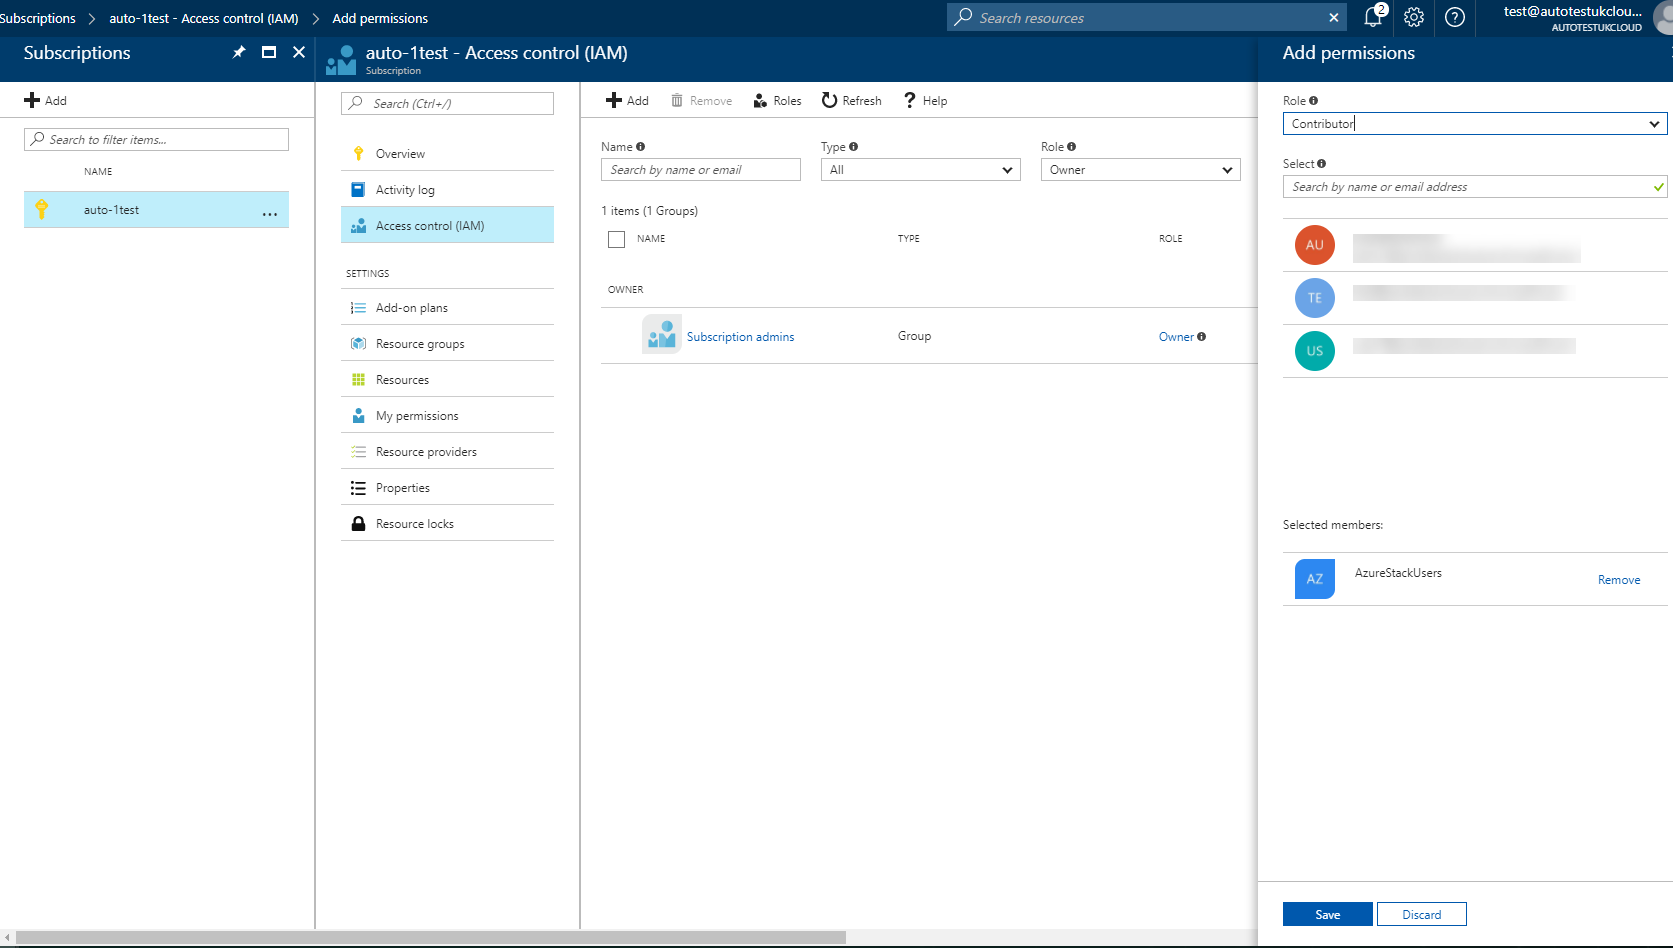
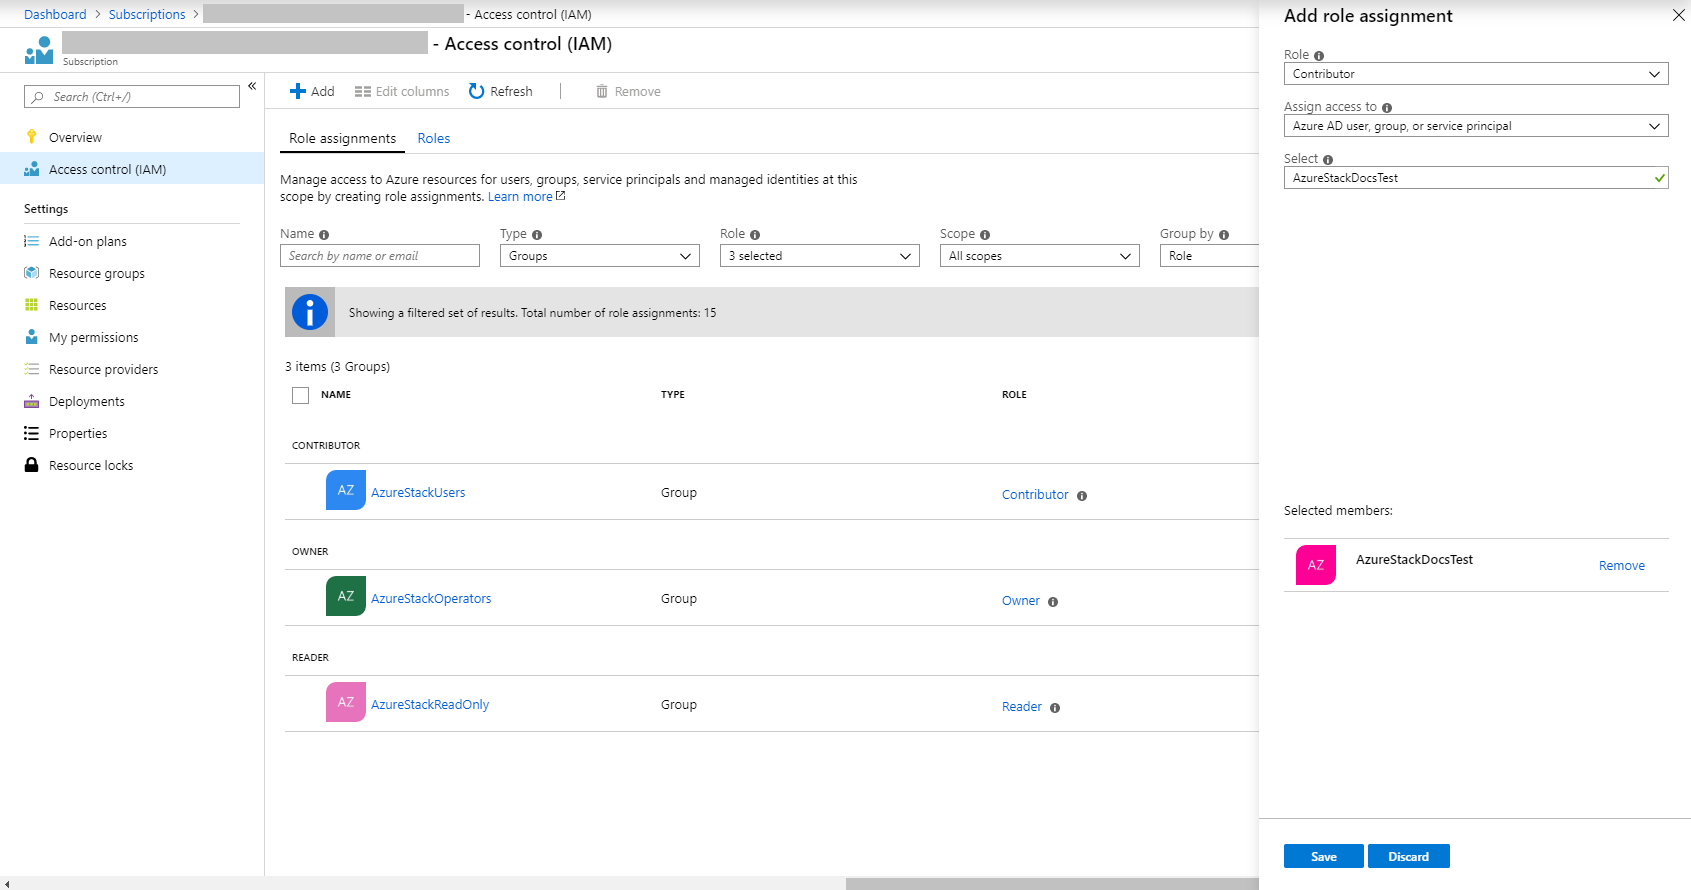
Updated wording & images

diff --git a/articles/azure/azs-how-manage-azure-group.md b/articles/azure/azs-how-manage-azure-group.md
@@ -78,17 +78,17 @@ To grant Azure permissions to a group:
 2. Navigate to **Subscriptions**.
 
     > [!TIP]
-    > If you can't see Subscriptions in your favourites panel, click **More services** and then **Subscriptions**. You can add Subscriptions to your favourites panel by clicking the star icon.
+    > If you can't see Subscriptions in your favourites panel, click **All services** and then **Subscriptions**. You can add Subscriptions to your favourites panel by clicking the star icon.
 
 3. Select your subscription for UKCloud for Microsoft Azure.
 
 4. Select **Access control (IAM)**.
 
-5. Click the **Add** option.
+5. Click the **Add** option, then click **Add role assignment**
 
 6. From the **Role** list, select the appropriate role that you want to assign to the group.
 
-7. In the **Select** field, enter the name of the group you created in [Creating a group for UKCloud for Microsoft Azure users](#creating-a-group-for-azure-users).
+7. In the **Select** field, enter the name of the group you created in [Creating a group for Azure users](#creating-a-group-for-azure-users).
 
     ![Add permissions blade](images/azs-portal_add-permissions.png)
 
